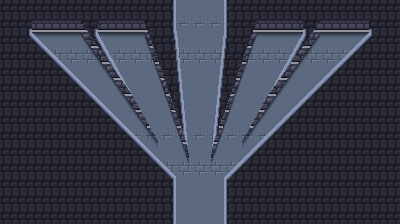
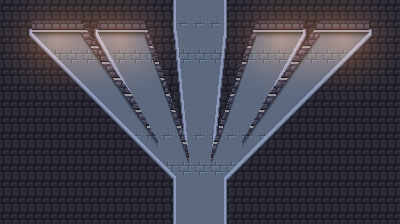
Couloir peint (voûte, alcôves), lueurs des flammes, dalles de cour pour l'arène
Claude-Session: https://claude.ai/code/session_01R6DULziKfSGZcEEcyC3Cch

Changed region(s): [[0.6, 0.0312, 0.96, 0.3438], [0.03, 0.0312, 0.39, 0.3438]]

diff --git a/Outils/fabriquer_vestibule.py b/Outils/fabriquer_vestibule.py
@@ -44,9 +44,9 @@ def masque_sol():
     return m
 
 
-def plan():
+def plan(masque=None):
     """Les 14 rangées de 25 caractères : '#' mur, '.' sol (une case est du sol si la moitié au moins de sa surface l'est)."""
-    f = np.asarray(masque_sol()) > 127
+    f = np.asarray(masque if masque is not None else masque_sol()) > 127
     rangees = []
     for cy in range(14):
         ligne = ""
@@ -56,8 +56,19 @@ def plan():
     return rangees
 
 
-def fabriquer():
-    sol_m = masque_sol()
+def masque_couloir():
+    """Le COULOIR (passage dans l'épaisseur du donjon rond) : un couloir droit de 3 cases + 2 alcôves de garde de chaque côté."""
+    m = Image.new("L", (W, H), 0)
+    d = ImageDraw.Draw(m)
+    d.rectangle([176, 0, 223, H], fill=255)
+    d.rectangle([128, 80, 175, 143], fill=255)        # alcôve gauche
+    d.rectangle([224, 80, 271, 143], fill=255)        # alcôve droite
+    return m
+
+
+def fabriquer(masque=None, fichier="fond_vestibule", lumieres=((56, 40), (120, 40), (280, 40), (344, 40)), nervures=()):
+    """Peint le fond. `lumieres` : centres des flammes (lueur chaude sur le sol et les murs) ; `nervures` : y des arcs de la voûte (bandes d'ombre en travers)."""
+    sol_m = masque if masque is not None else masque_sol()
     f = np.asarray(sol_m) > 127
     fond = paver(["mur_fond"])                                        # les murs vus de dessus : briques sombres
     sol = paver(["sol_plat", "sol_plat", "sol_plat", "sol_plat_b", "sol_plat_c", "sol_plat", "sol_plat_d"])
@@ -85,11 +96,31 @@ def fabriquer():
         sh[d:, :] = face_m[:-d, :]
         sel = sh & f
         arr[sel, :3] = (arr[sel, :3] * (1.0 - 0.07 * (7 - d) / 6.0 * 3)).astype(np.uint8)
-    # relief des cloisons : léger éclairage depuis le haut-gauche
-    Image.fromarray(arr, "RGBA").save(os.path.join(TUILES, "fond_vestibule.png"))
+    # arcs de la voûte : une bande d'ombre en travers du sol, avec un filet clair au-dessus
+    for y in nervures:
+        for dy in range(8):
+            sel = f.copy()
+            sel[:, :] = False
+            if 0 <= y + dy < H:
+                sel[y + dy, :] = f[y + dy, :]
+                arr[sel, :3] = (arr[sel, :3] * (0.78 + 0.02 * dy)).astype(np.uint8)
+        if 0 <= y - 1 < H:
+            sel = np.zeros_like(f)
+            sel[y - 1, :] = f[y - 1, :]
+            arr[sel, :3] = np.minimum(255, arr[sel, :3].astype(int) + 26).astype(np.uint8)
+    # LUEUR chaude des flammes sur le sol et les murs
+    yy, xx = np.mgrid[0:H, 0:W]
+    lum = np.zeros((H, W), float)
+    for (lx, ly) in lumieres:
+        d = np.sqrt((xx - lx) ** 2 + ((yy - ly) * 1.15) ** 2)
+        lum += np.clip(1.0 - d / 78.0, 0, 1) ** 2
+    lum = np.clip(lum, 0, 1.2)[..., None]
+    arr[..., :3] = np.minimum(255, arr[..., :3] + lum * np.array([150, 82, 28]) * 0.55).astype(np.uint8)
+    Image.fromarray(arr, "RGBA").save(os.path.join(TUILES, fichier + ".png"))
 
 
 if __name__ == "__main__":
     fabriquer()
-    print("fond_vestibule.png écrit")
+    fabriquer(masque_couloir(), "fond_couloir", lumieres=((136, 88), (264, 88)), nervures=(40, 104, 168))
+    print("fond_vestibule.png et fond_couloir.png écrits")
     print("\n".join(plan()))

diff --git a/Outils/generer_corps.py b/Outils/generer_corps.py
@@ -51,12 +51,21 @@ def sol(g, x0, x1, y0, y1, c='.'):
             g[y][x] = c
 
 
-# --- COULOIR (0,1) : on est entré dans le CORPS. Un long couloir de 5 cases, braseros le long des murs, tapis au centre.
-couloir = vide()
-sol(couloir, 10, 14, 2, 11)            # le couloir : 5 cases de large (les ouvertures du haut et du bas : 3 cases, comme les autres salles)
-sol(couloir, 11, 13, 0, 13, 'T')
-for (x, y) in [(10, 3), (14, 3), (10, 7), (14, 7), (10, 11), (14, 11)]:
-    couloir[y][x] = 'B'
+# --- COULOIR (0,1) : on est entré dans le CORPS : le passage voûté dans l'épaisseur du donjon rond. PEINT (Outils/fabriquer_vestibule.py::masque_couloir) :
+# couloir droit de 3 cases, trois arcs de voûte, deux alcôves de garde (statue + flamme) ; tapis rouge au milieu.
+import sys
+sys.path.insert(0, os.path.dirname(__file__))
+import fabriquer_vestibule
+fabriquer_vestibule.fabriquer(fabriquer_vestibule.masque_couloir(), "fond_couloir", lumieres=((136, 88), (264, 88)), nervures=(40, 104, 168))
+couloir = [list(r) for r in fabriquer_vestibule.plan(fabriquer_vestibule.masque_couloir())]
+for y in range(H):
+    for x in (11, 12, 13):
+        if couloir[y][x] == '.':
+            couloir[y][x] = 'T'
+for (x, y) in [(8, 5), (16, 5)]:
+    couloir[y][x] = 'B'                # flammes dans les alcôves
+for (x, y) in [(9, 7), (15, 7)]:
+    couloir[y][x] = 'S'                # statues de gardes dans les alcôves
 
 # --- VESTIBULE (0,2) : la QUEUE du coq (voir Coq_forteresse.jpg) : CINQ COULOIRS DE TERRE qui se rejoignent à la porte d'entrée (en bas) et s'écartent
 # en éventail vers le donjon rond ; une flamme brûle au bout de chacun ; seul le couloir du milieu continue vers le corps.
@@ -102,6 +111,7 @@ layout = %s
 [node name="Couloir" parent="." instance=ExtResource("2")]
 grille = Vector2i(0, 1)
 teinte = Color(1.0, 0.93, 0.85, 1)
+fond_image = \"fond_couloir\"
 layout = %s
 
 [node name="Vestibule" parent="." instance=ExtResource("2")]

diff --git a/Outils/fabriquer_sol_corps.py b/Outils/fabriquer_sol_corps.py
@@ -29,4 +29,22 @@ for nom, base, e, c, t in [
     ("sol_herbe", (52, 86, 44), 6, 0, 2), ("sol_herbe_b", (46, 78, 40), 7, 0, 5), ("sol_herbe_c", (58, 92, 48), 6, 2, 3),
 ]:
     tuile(base, e, c, t).save(os.path.join(SORTIE, nom + ".png"))
+
+
+def dalle(base, decalage, fissure):
+    """Une dalle de cour 16x16 : pierre claire et chaude, joints sombres (les joints sont décalés une dalle sur deux), usure légère."""
+    a = np.zeros((16, 16, 3), float) + np.array(base, float)
+    a += rng.normal(0, 4, (16, 16, 1))
+    a[0, :] *= 0.72                       # joint du haut
+    a[:, 0 if decalage else 8] *= 0.78    # joint vertical (décalé selon la rangée)
+    a[1, 1:] = np.minimum(255, a[1, 1:] * 1.12)    # filet de lumière
+    if fissure:
+        x, y = int(rng.integers(3, 12)), int(rng.integers(3, 12))
+        for k in range(4):
+            a[min(15, y + k), min(15, x + (k % 2))] *= 0.6
+    return Image.fromarray(np.clip(a, 0, 255).astype(np.uint8)).convert("RGBA")
+
+
+for nom, base, dec, fis in [("sol_dalle_cour", (164, 150, 128), 0, False), ("sol_dalle_cour_b", (158, 144, 124), 1, False), ("sol_dalle_cour_c", (168, 153, 130), 0, True)]:
+    dalle(base, dec, fis).save(os.path.join(SORTIE, nom + ".png"))
 print("sols du corps écrits")

diff --git a/CLAUDE.md b/CLAUDE.md
@@ -840,6 +840,9 @@
   VESTIBULE REFAIT (rendu réel vérifié) : `Outils/fabriquer_vestibule.py` PEINT un éventail de 5 couloirs de PIERRE (pas de terre) qui convergent vers la porte (bords à 45°, cloisons en pointe vers le foyer sous la porte, faces de mur en briques, liserés, ombres) -> `Assets/Gemini/tuiles/fond_vestibule.png` ; nouvel export `Room.fond_image` (le fond peint remplace les tuiles de sol/mur, le plan `layout` ne sert plus qu'aux collisions, tiré des polygones par `plan()`) ; tapis rouge sur le couloir du milieu, 4 flammes aux bouts des couloirs extérieurs, 2 coqs de pierre.
   ARÈNE : SIX braseros (4 coins + 2 au milieu des côtés) comme sur l'image. Reste (audit designer) : faire le même travail « image peinte » pour le Couloir ; lumière sur le sol du vestibule ; sol de l'arène en pierre plus claire ; vérifier la cohérence des 6 tours à flammes de la façade (extérieur) avec celles de l'intérieur.
 
+- 2026-11-14 : audit designer, points 1-4 (rendu des fonds vérifié en image, captures in-game en attente) : (1) COULOIR PEINT (`fabriquer_vestibule.py::masque_couloir`, `fond_couloir.png`) : passage voûté dans l'épaisseur du donjon, 3 arcs de voûte en bandes d'ombre, 2 alcôves de garde avec flamme et statue, tapis ; (2) LUMIÈRE : lueurs chaudes des flammes peintes dans le sol et les murs (vestibule et couloir) ; (3) SOL DE L'ARÈNE : dalles de cour claires et chaudes à joints décalés (`sol_dalle_cour*`, `Room._nom_sol` quand `ciel_etoile`) ;
+  (4) COHÉRENCE DES FLAMMES : l'image a 6 tours à flammes à l'ENTRÉE (extérieur, sur la façade) et 4 flammes d'arches au bout des couloirs (= les 4 flammes du vestibule intérieur) : cohérent. RESTE le point 5 : ailes du donjon (salles génériques vs façade aux plumes de pierre) : à décider avec l'utilisateur (Opus).
+
 ## PROCHAINE ÉTAPE (Sonnet) : tester 14b dans Godot, puis harmoniser le reste du village
 - Temple, corps du coq, intérieurs, clôtures, puits, tonneau, bannière encore dans l'ancien style (maisons FAITES en 14e) ; héros à harmoniser avec les habitants ; animation « au repos » des habitants (4 images dispo) ; secrets (bois/cascade) ; route du sud à ouvrir à l'épilogue.
 - Ensuite : stèle à refaire, rééquilibrage D5/énigmes, mode 7, contrôles tactiles.
